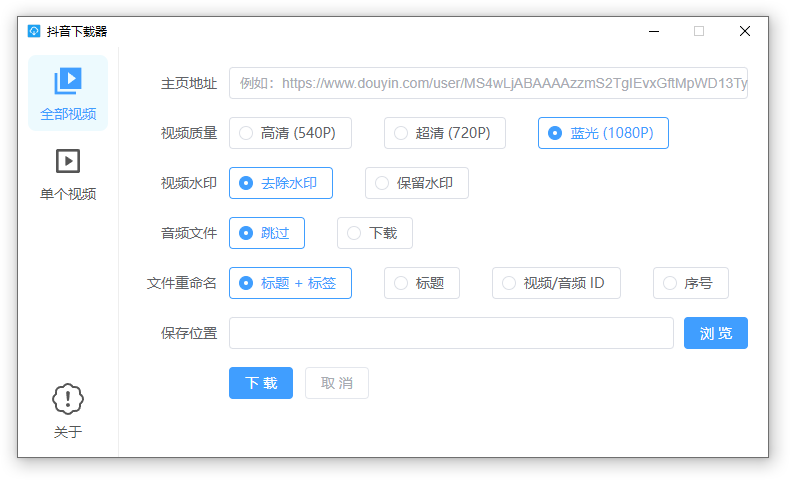
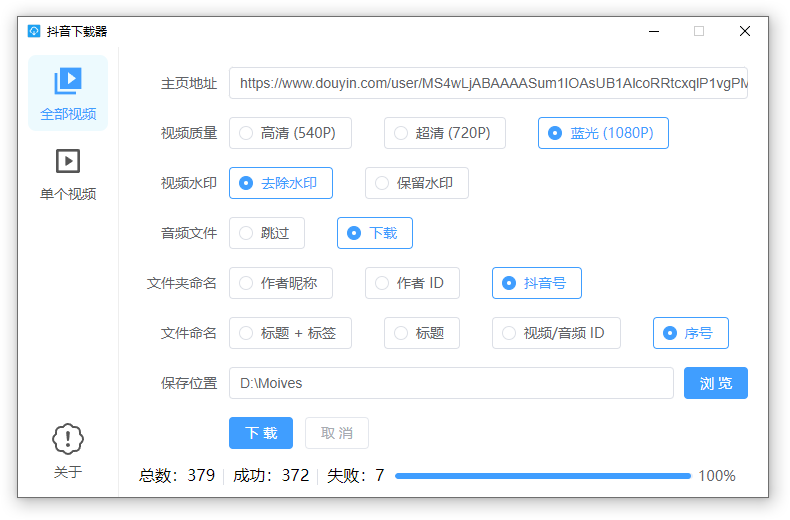
feat: add folder name options

diff --git a/src/components/multiple/index.vue b/src/components/multiple/index.vue
@@ -1,10 +1,10 @@
 <template lang="pug" src="./index.pug"></template>
 <style scoped lang="stylus" src="./index.styl"></style>
 <script setup lang="ts">
-import { NameType } from '@/enums'
+import { FileNameType, FolderNameType } from '@/enums'
 import { generateVideoURL } from '@/utils'
-import { invoke, http, dialog } from '@tauri-apps/api'
-import { basename } from '@tauri-apps/api/path'
+import { invoke, http, dialog, fs } from '@tauri-apps/api'
+import { basename, resolve } from '@tauri-apps/api/path'
 import { ElButton, ElForm, ElFormItem, ElInput, ElProgress, ElDivider, ElMessage, ElRadioGroup, ElRadio, ElRadioButton } from 'element-plus'
 import { computed, ref } from 'vue'
 
@@ -13,7 +13,8 @@ const form = ref({
   savePath: '',
   ratio: '1080p',
   watermark: 0,
-  nameType: NameType.TitleTag,
+  folderNameType: FolderNameType.Nickname,
+  fileNameType: FileNameType.TitleTag,
   audio: false,
 })
 
@@ -45,7 +46,33 @@ const onSubmit = async () => {
 
   if (sec_uid) {
     isDownloading.value = true
-    requsetList(sec_uid, max_cursor)
+
+    const url = 'https://www.iesdouyin.com/web/api/v2/user/info'
+    const response = await http.fetch(url, { method: 'GET', query: { sec_uid } }).catch((error) => console.error(error))
+    if (response) {
+      const data = response.data as any
+      if (data.status_code === 0) {
+        let folderName = ''
+        switch (form.value.folderNameType) {
+          case FolderNameType.Nickname:
+            folderName = data.user_info.nickname
+            break
+          case FolderNameType.ID:
+            folderName = data.user_info.uid
+            break
+          case FolderNameType.DouyinID:
+            folderName = data.user_info.unique_id || data.user_info.short_id
+            break
+        }
+        const folderPath = await resolve(form.value.savePath, folderName)
+        await fs.createDir(folderPath)
+
+        requsetList(sec_uid, max_cursor, folderPath)
+      }
+    } else {
+      isDownloading.value = false
+      ElMessage.error('获取作者信息失败')
+    }
   } else ElMessage.error('请输入正确的用户主页地址')
 }
 
@@ -53,7 +80,7 @@ const onCancelClick = () => {
   isDownloading.value = false
 }
 
-const requsetList = (sec_uid: string, max_cursor: string) => {
+const requsetList = (sec_uid: string, max_cursor: string, folderPath: string) => {
   const listURL = 'https://www.iesdouyin.com/web/api/v2/aweme/post'
 
   http
@@ -71,7 +98,7 @@ const requsetList = (sec_uid: string, max_cursor: string) => {
       if (data.has_more) {
         total.value += data.aweme_list.length
 
-        requsetList(sec_uid, data.max_cursor.toString())
+        requsetList(sec_uid, data.max_cursor.toString(), folderPath)
 
         data.aweme_list.forEach(async (v: any, i: number) => {
           const { desc, video } = v
@@ -84,25 +111,25 @@ const requsetList = (sec_uid: string, max_cursor: string) => {
           const url = isAudio ? video.play_addr.url_list[0] : generateVideoURL(vid, form.value.ratio, form.value.watermark)
 
           let name = ''
-          switch (form.value.nameType) {
-            case NameType.TitleTag:
+          switch (form.value.fileNameType) {
+            case FileNameType.TitleTag:
               name = desc
               break
-            case NameType.Title:
+            case FileNameType.Title:
               const index = desc.indexOf('#')
               if (index === -1) name = desc.trim()
               else name = desc.substring(0, index).trim()
               break
-            case NameType.ID:
+            case FileNameType.ID:
               name = isAudio ? await basename(url, '.mp3') : vid
               break
-            case NameType.Index:
+            case FileNameType.Index:
               name = (total.value - data.aweme_list.length + i + 1).toString()
               break
           }
 
           const ext = isAudio ? '.mp3' : '.mp4'
-          const path = `${form.value.savePath}/${name}${ext}`
+          const path = await resolve(folderPath, name + ext)
           invoke('download', { url, path })
             .then(() => successCount.value++)
             .catch(() => failureCount.value++)

diff --git a/src/components/single/index.vue b/src/components/single/index.vue
@@ -1,7 +1,7 @@
 <template lang="pug" src="./index.pug"></template>
 <style scoped lang="stylus" src="./index.styl"></style>
 <script setup lang="ts">
-import { NameType } from '@/enums'
+import { FileNameType } from '@/enums'
 import { generateVideoURL } from '@/utils'
 import { dialog, http, invoke } from '@tauri-apps/api'
 import { basename } from '@tauri-apps/api/path'
@@ -13,7 +13,7 @@ const form = ref({
   savePath: '',
   ratio: '1080p',
   watermark: 0,
-  nameType: NameType.TitleTag,
+  nameType: FileNameType.TitleTag,
   audio: false,
 })
 
@@ -67,15 +67,15 @@ const requestVideo = (item_ids: string) => {
 
         let name = ''
         switch (form.value.nameType) {
-          case NameType.TitleTag:
+          case FileNameType.TitleTag:
             name = desc
             break
-          case NameType.Title:
+          case FileNameType.Title:
             const index = desc.indexOf('#')
             if (index === -1) name = desc.trim()
             else name = desc.substring(0, index).trim()
             break
-          case NameType.ID:
+          case FileNameType.ID:
             name = isAudio ? await basename(url, '.mp3') : vid
             break
         }

diff --git a/src/enums/index.ts b/src/enums/index.ts
@@ -1,4 +1,13 @@
-export enum NameType {
+export enum FolderNameType {
+  /** 作者昵称 */
+  Nickname,
+  /** 作者 ID */
+  ID,
+  /** 抖音号 */
+  DouyinID,
+}
+
+export enum FileNameType {
   /** 标题 + 标签 */
   TitleTag,
   /** 标题 */
